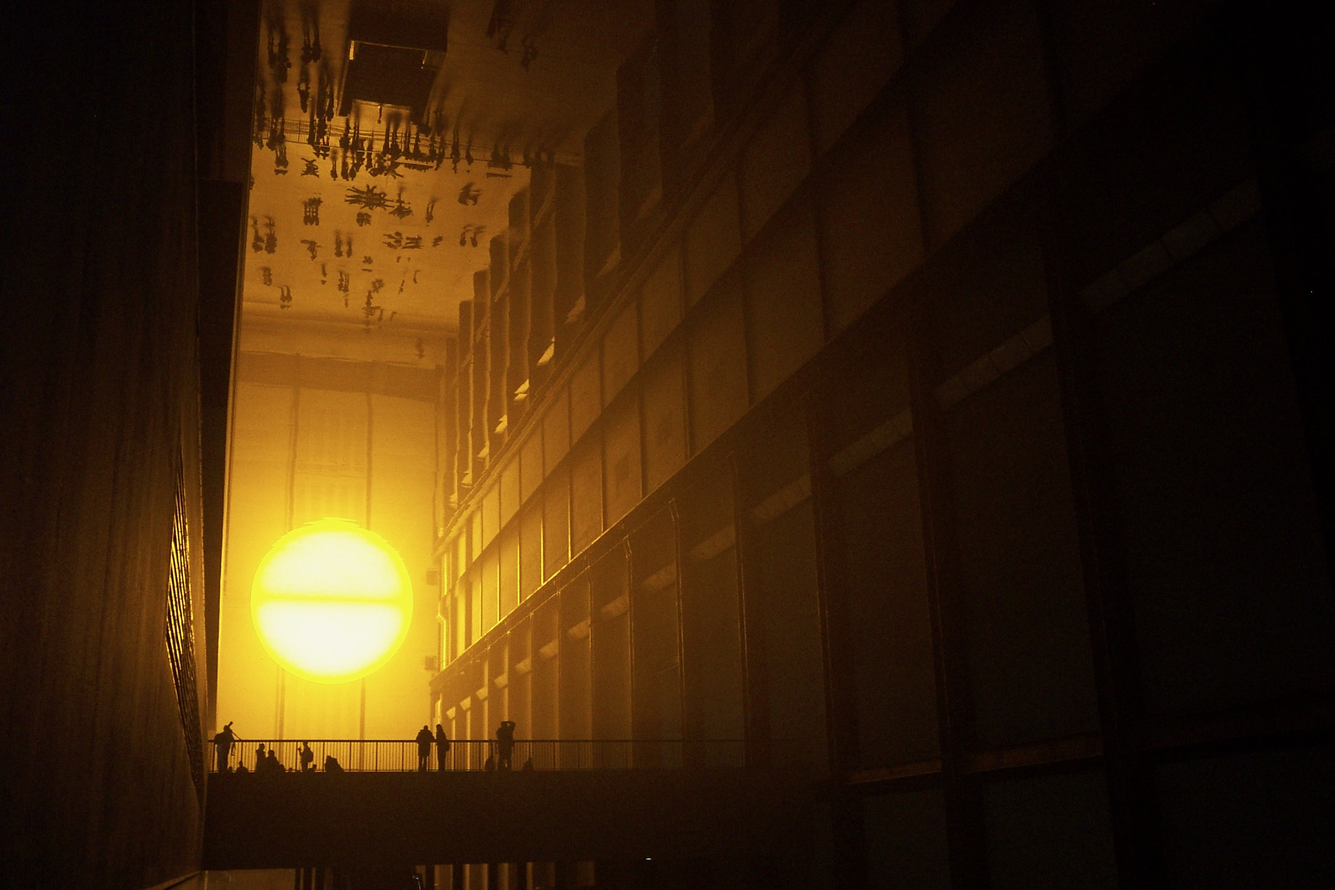
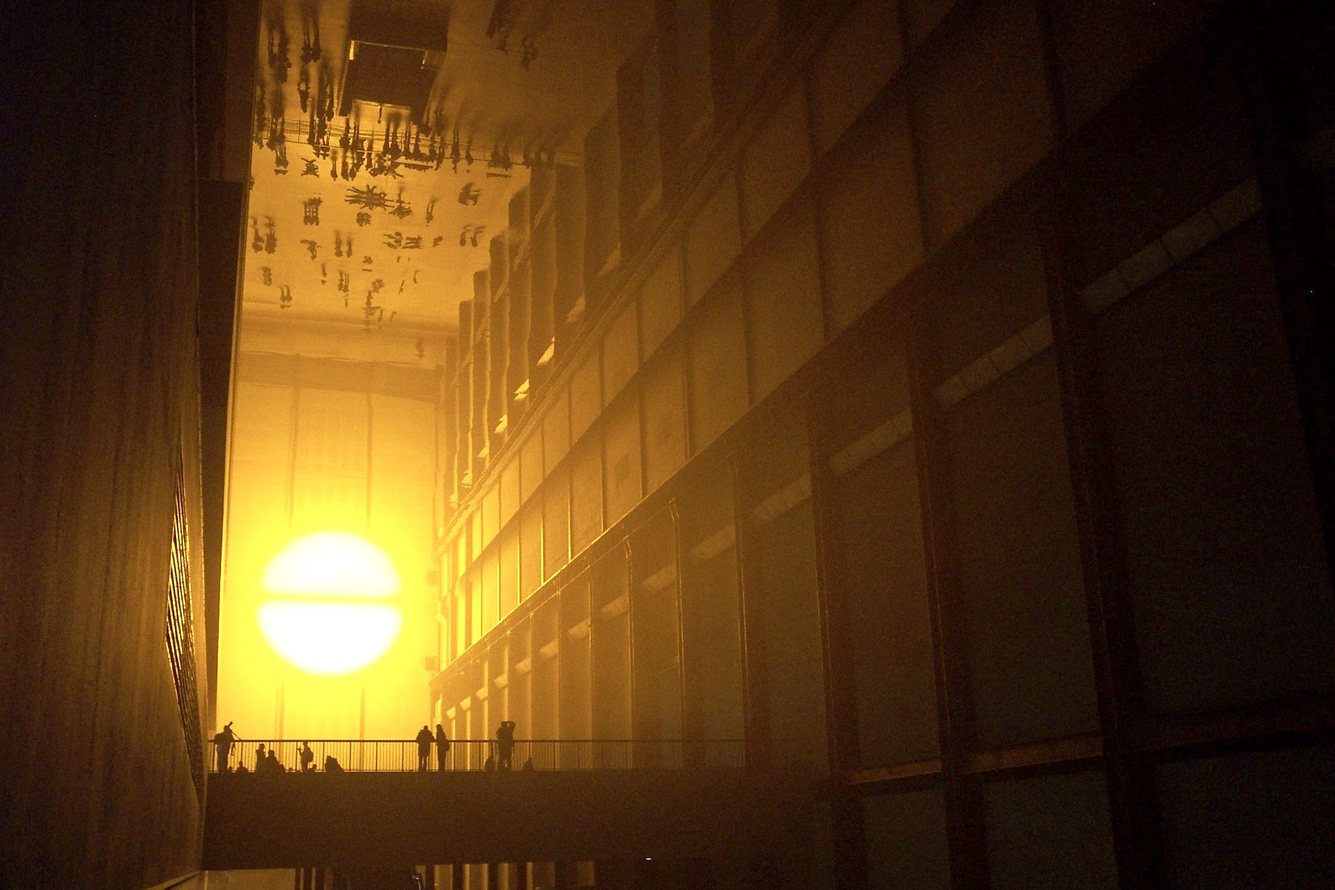
Give Notes its own distinct image (brightened landscape-offset-left) instead of duplicating the homepage's photo

diff --git a/content/notes/_index.md b/content/notes/_index.md
@@ -5,5 +5,5 @@ date = 2026-04-26
 draft = false
 type = "notes"
 layout = "list"
-featured_image = "/images/Tate-weather-project-offset-left-reflected-ceiling.jpg"
+featured_image = "/images/Tate-weather-project-landscape-offset-left.jpg"
 +++
